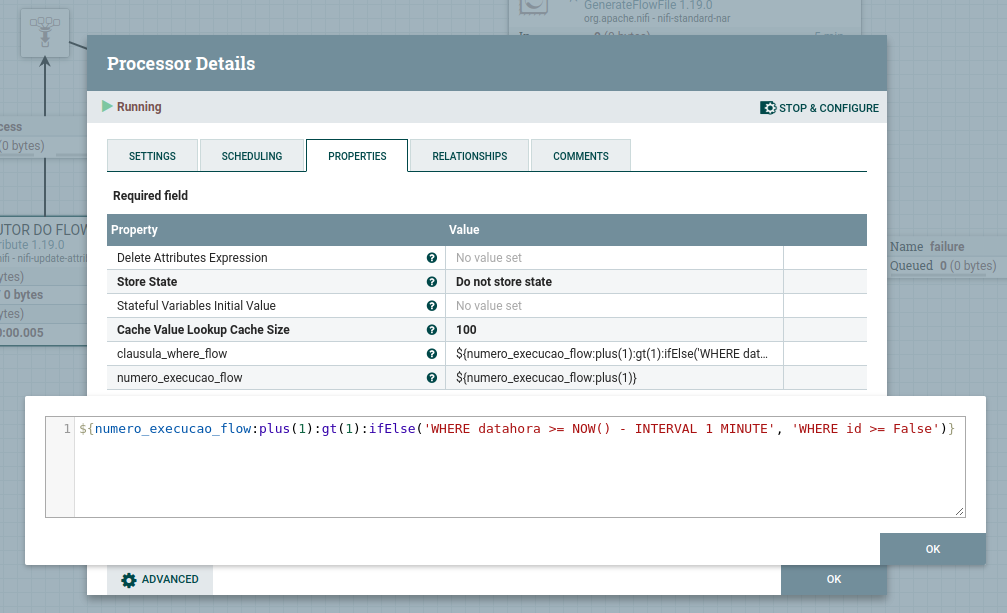
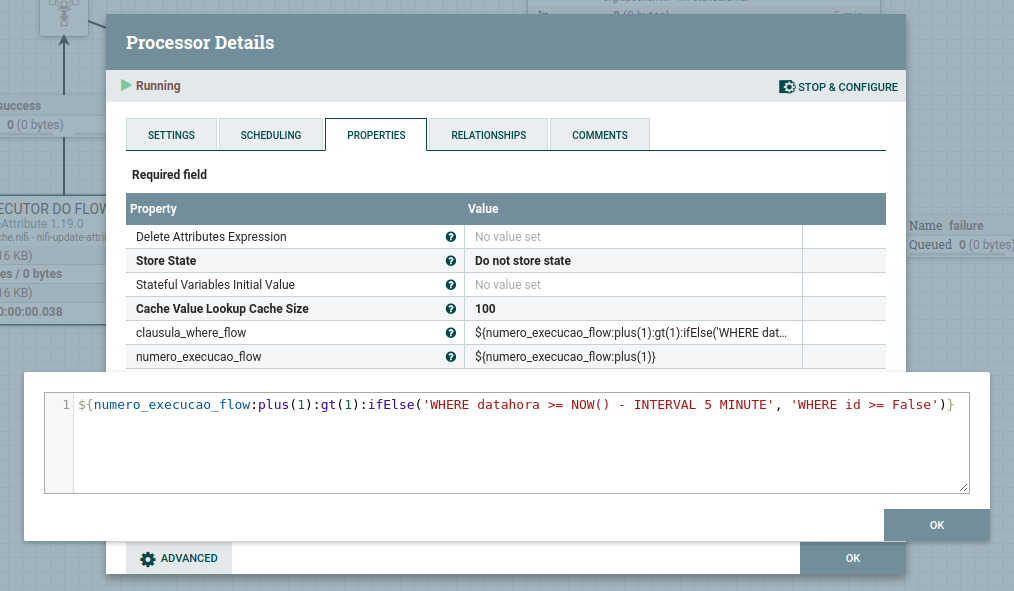
Update repo...

Changed region(s): [[0.0, 0.0, 1.0, 0.9746]]

diff --git a/README.md b/README.md
@@ -1,6 +1,6 @@
-# Fluxo de Persistência de Dados
+# Integração de Dados entre Sistemas Heterogêneos 
 
-![Fluxo de Persistência de Dados](ELT/Docs/Fluxo-ELT-1.0.png)
+![Fluxo de Integração de Dados](ELT/Docs/Fluxo-ELT-1.0.png)
 
 Trata-se de um processo de ***ELT*** (Extração, Carga e Transformação) que integra um sistema legado com um banco de dados ***relacional*** (no exemplo, um MySQL) para um banco ***NoSQL*** (ElasticSearch) sem alterações significativas nos dados transferidos.
 
@@ -237,16 +237,68 @@ ${clausula_where_flow}
 ORDER BY id;
 ```
 
-As variáveis 'clausula_where_flow' e 'numero_execucao_flow' no Apache Nifi são responsáveis por definir se será uma carga inicial completa ou cargas incrementais, isso para os Flows de Clientes e Vendas, que neste caso serão feitas a cada 5 minutos. Para mais detalhes sobre essa regra, consulte o fluxo.
+As variáveis '***clausula_where_flow***' e '***numero_execucao_flow***' no Apache Nifi são responsáveis por definir se será uma carga inicial completa ou cargas incrementais, isso para os Flows de Clientes e Vendas, que neste caso serão feitas a cada 5 minutos. Para mais detalhes sobre essa regra, consulte o fluxo.
 
 Exemplo da lógica para execução das cargas:
 
 ![Exemplo da lógica para execução das cargas](ELT/Docs/exemplo-logica-carga.png)
 
+> ***IMPORTANTE:*** Essa regra de captura dos registros inseridos nos últimos 5 minutos é apenas uma abordagem conceitual, podendo ocorrer falhas na recuperação dos dados do banco. Para uma execução com grande grau de precisão, a inclusão de algumas variáveis de controle é necessária, mas não é o escopo do nosso contexto aqui.
+
 #### Configurando os Flows no Apache Nifi
 
-Em Desenvolvimento...
+Um dos primeiros passos no desenvolvimento de Flows no Apache NiFi é verificar se as conexões aos bancos de dados estão criadas e funcionando. Para isso, os 'controller services' são utilizados. No nosso exemplo, teremos um controller service para o MySQL via JDBC e outro para Elasticsearch.
 
+Para criar um controller service, é necessário acessar:
+
+***Configuration (Engrenagem) >> Controller Services >> Create a new controller service***
+
+epois disso, é necessário escolher e configurar um 'DBCPConnectionPool 1.19.0' e um 'JsonRecordSetWriter 1.19.0' para o MySQL, além de um 'ElasticSearchClientServiceImpl 1.19.0' para o Elasticsearch. No caso do MySQL, é uma configuração JDBC comum, e é necessário um controller service para converter o resultado da query em um arquivo JSON. Já no caso do Elasticsearch, é necessário informar a URL HTTP://..., o nome de usuário e a senha do servidor Elastic
+
+
+***Controller Services***
+
+![Controller Services](ELT/Docs/exemplo-controller-services.png)
+
+
+***Conexão com MySQL***
+
+![Processor Apache Nifi](ELT/Docs/exemplo-processor-mysql.png)
+
+![Propriedades Processor](ELT/Docs/exemplo-propriedades-processor-mysql.png)
+
+
+***Conexão com Elasticsearch***
+
+![Processor Apache Nifi](ELT/Docs/exemplo-processor-elastic.png)
+
+![Propriedades Processor](ELT/Docs/exemplo-propriedades-processor-elastic.png)
+
+
+***Lógica para extração contínua a cada 5 Minutos***
+
+![Lógica de extração contínua](ELT/Docs/exemplo-logica-extracao-continua.png)
+
+
+***Separa o resultado da Query SQL em um arquivo Json para cada linha***
+
+![Separa resultado query em arquivos Jsons](ELT/Docs/exemplo-separa-resultado-query.png)
+
+![Separa resultado query em arquivos Jsons - Propriedades](ELT/Docs/exemplo-separa-resultado-query-propriedades.png)
+
+
+***Grava no Elasticsearch em formato Json***
+
+![Grava no Elasticsearch](ELT/Docs/exemplo-grava-elasticsearch.png)
+
+![Modelo arquivo para gravação](ELT/Docs/exemplo-arquivo-json.png)
+
+
+***Flow Completo - Clientes***
+
+![Flow Completo - Clientes](ELT/Docs/exemplo-flow-clientes.png)
+
+> ***Obs.:*** Todo esse detalhamento do fluxo é para a extração de clientes. Para as vendas, há um fluxo com a mesma estrutura lógica, mas com uma query de início do MySQL e uma índice de destino no Elasticsearch diferentes.
 
 #### Ativando os Flows no Apache Nifi
 
